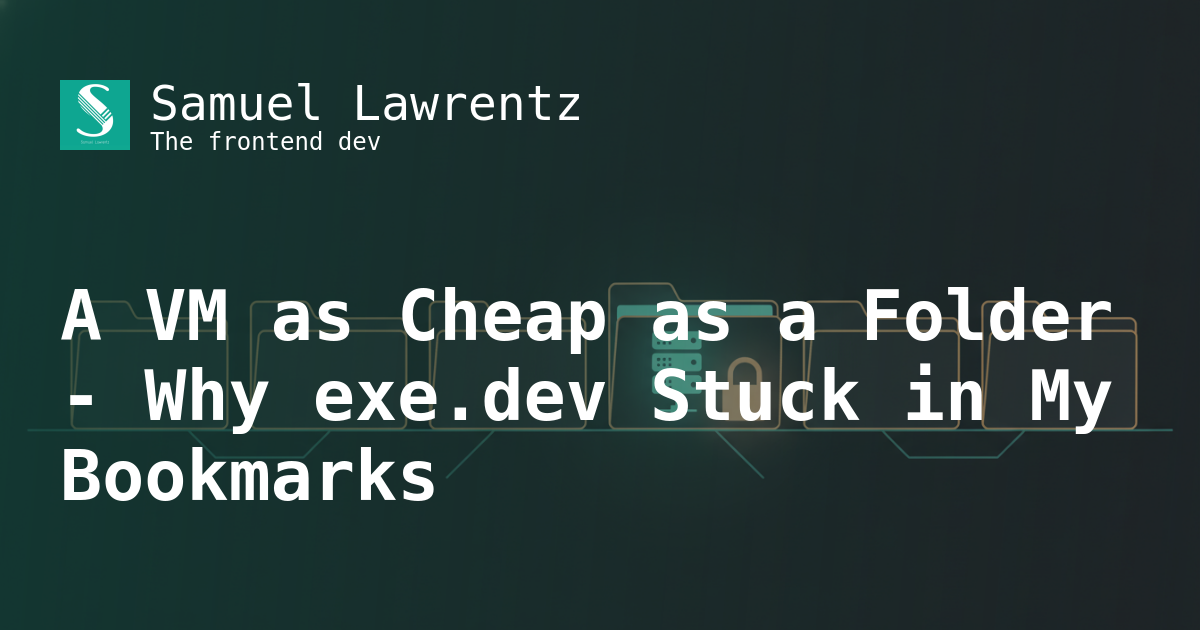
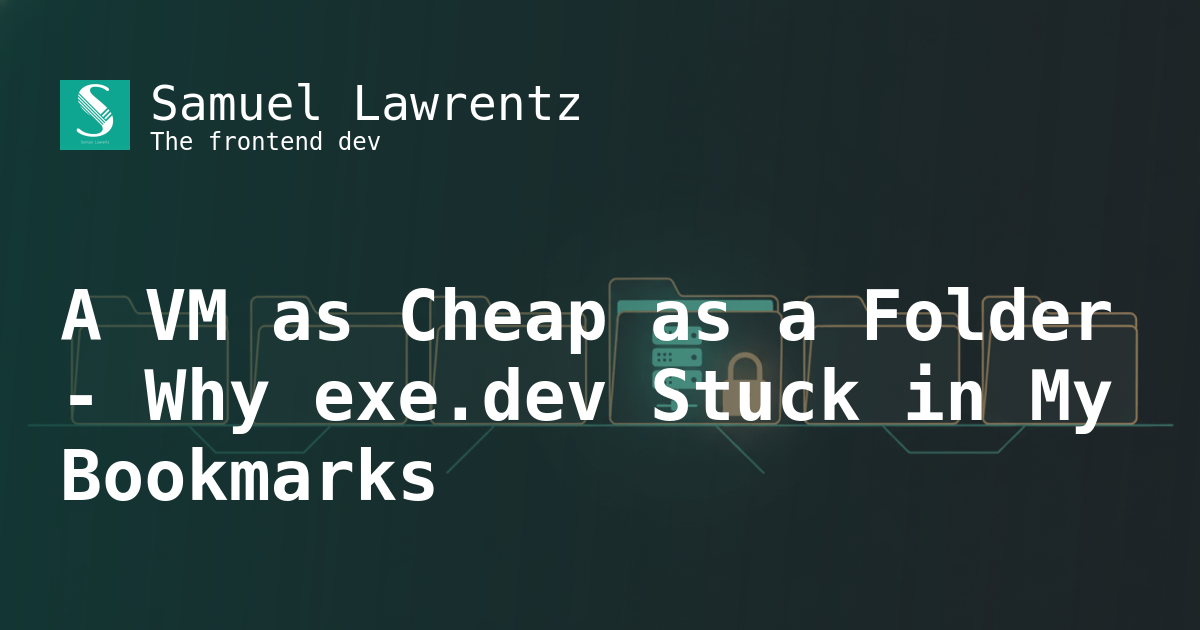
blog(exe.dev): own-take voice, no source attribution, compress hero
Claude-Session: https://claude.ai/code/session_01XVCykpkfbT73RdvzARNRJj

diff --git a/src/content/blog/exe-dev-vm-as-cheap-as-a-folder/index.md b/src/content/blog/exe-dev-vm-as-cheap-as-a-folder/index.md
@@ -8,7 +8,7 @@ tags: [infrastructure, cli, ai, tools]
 description: One ssh command, half a second, and you have a persistent Linux box with its own HTTPS URL. The billing model is the interesting part, not the speed.
 ---
 
-I bookmark a lot of things on X and read maybe a third of them. This one I read twice. Flavio Copes wrote a deep dive on exe.dev, and the line that got me was not the boot time, it was this: "A VM is as cheap as a folder."
+I bookmark a lot of things on X and read maybe a third of them. This one I read twice. It was about [exe.dev](https://exe.dev), and the thing that got me was not the boot time, it was one idea: a VM should be as cheap as a folder.
 
 I have been paying for cloud machines for a decade and I have never once thought of one as cheap as a folder. I think of them as a meter running. That mental model is the thing this post is about.
 
@@ -42,13 +42,13 @@ You do not pay per VM. You pay for a pool.
 | Medium | 4 vCPU / 16GB | $40/mo |
 | Large | 8 vCPU / 32GB | $80/mo |
 
-An idle VM takes zero CPU from the pool, only its disk counts. So the number of machines you have stops mattering. One per project. One per experiment. One per agent task. Flavio put it as "you stop watching the meter", and that is exactly the behaviour change. On a VPS I consolidate everything onto one box because a second box is another line on the bill. Here a second box is a folder.
+An idle VM takes zero CPU from the pool, only its disk counts. So the number of machines you have stops mattering. One per project. One per experiment. One per agent task. You stop watching the meter, and that is exactly the behaviour change. On a VPS I consolidate everything onto one box because a second box is another line on the bill. Here a second box is a folder.
 
 This is the same trick microVMs pulled on the sandbox side: once the unit gets cheap enough, you stop rationing it and your whole workflow changes shape.
 
 ## Why I care right now
 
-I just wrote about [Herdr and agent runtimes](/blog/herdr-6m-seed-why-agent-runtimes-get-funded/). The obvious question with agents that run for an hour is where they run. On my Mac, with my credentials and my filesystem, is the honest answer today, and I am not thrilled about it. Flavio moved his agent workspaces onto exe.dev VMs, one per task, and the agent gets its own box with nothing of his on it. Herdr can attach to any of them over SSH. That is a clean setup and I want it.
+I just wrote about [Herdr and agent runtimes](/blog/herdr-6m-seed-why-agent-runtimes-get-funded/). The obvious question with agents that run for an hour is where they run. On my Mac, with my credentials and my filesystem, is the honest answer today, and I am not thrilled about it. The setup I want is one VM per agent task, so the agent gets its own box with nothing of mine on it, and Herdr attaches to all of them over SSH. People are already running exactly this on exe.dev. That is a clean setup.
 
 ## The honest part
 
